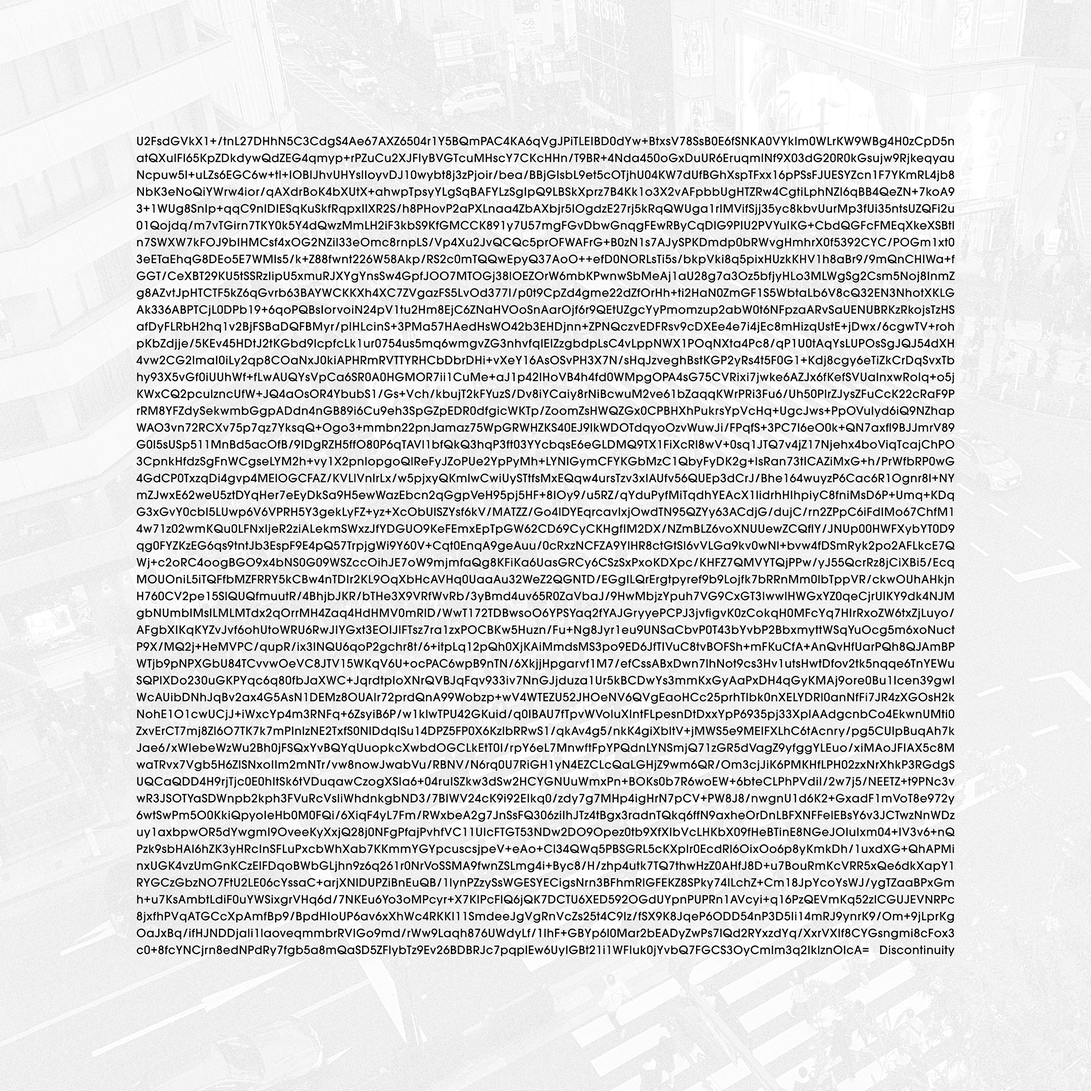
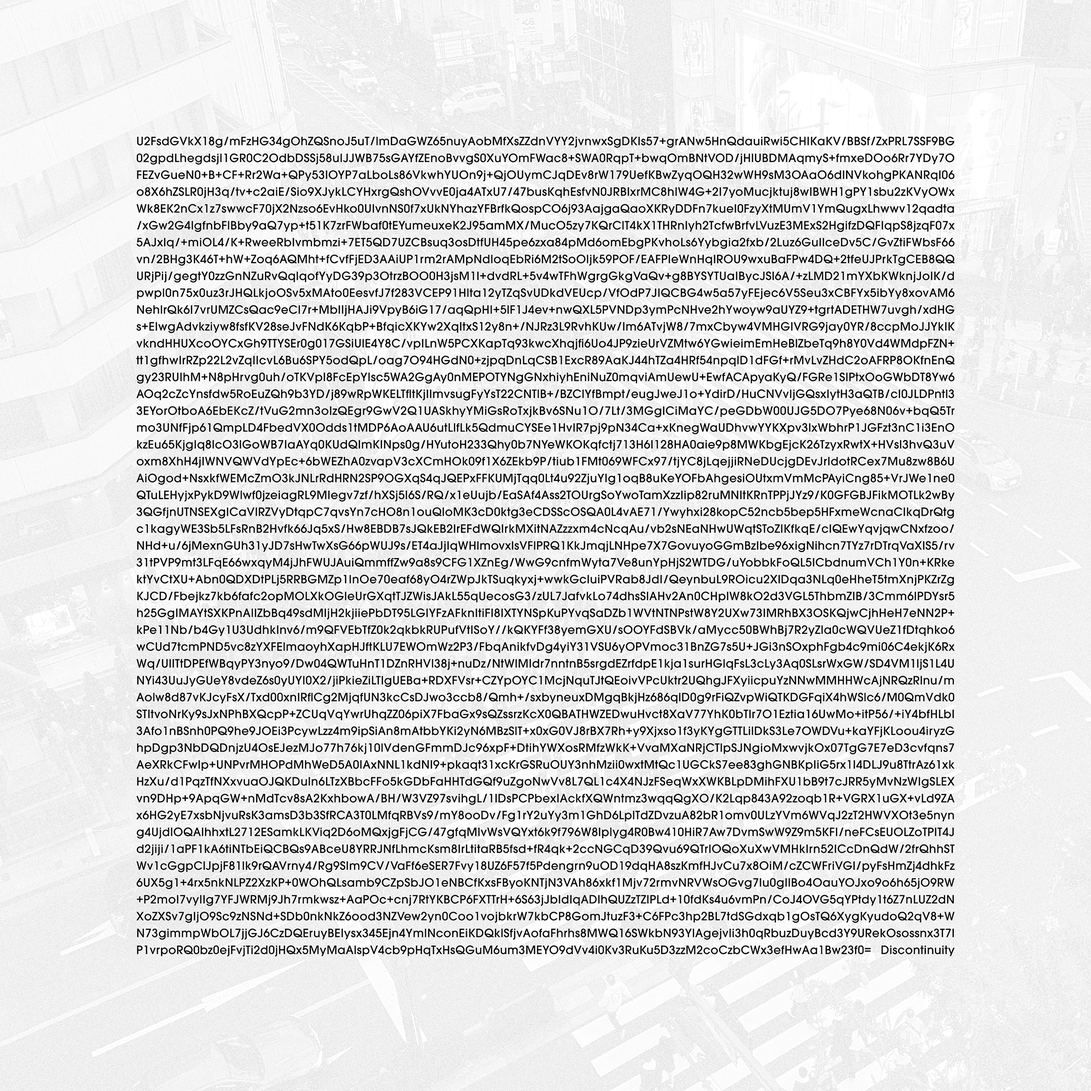
Update cover and text.

Changed region(s): [[0.1241, 0.1241, 0.8685, 0.8995]]

diff --git a/README.md b/README.md
@@ -9,7 +9,7 @@ This repository contains the encrypted text featured on the album cover for *Dis
 To decrypt it:
 
 1. Visit: [https://encrypt-online.com/decrypt](https://encrypt-online.com/decrypt)
-2. Select **aes-256-cbc** as the encryption method (this should be the default)
+2. Select **AES-256-CBC (legacy compatibility)** as the encryption method
 3. Paste the contents of `encrypted-text.txt` into the input field
 4. Use the album title — **`Discontinuity`** (capital <kbd>D</kbd>) — as the passphrase
 5. Click **Decrypt**
@@ -26,7 +26,6 @@ To decrypt it:
 ## Listen or Buy
 
 - **Bandcamp**: [Buy or stream on Bandcamp](https://yannnovak.bandcamp.com/album/discontinuity)
-- **Streaming**: Available on all major platforms (TIDAL, Apple Music, Spotify, etc.)
 - **Label**: [Room40](https://room40.org)
 
 ## About the Project
